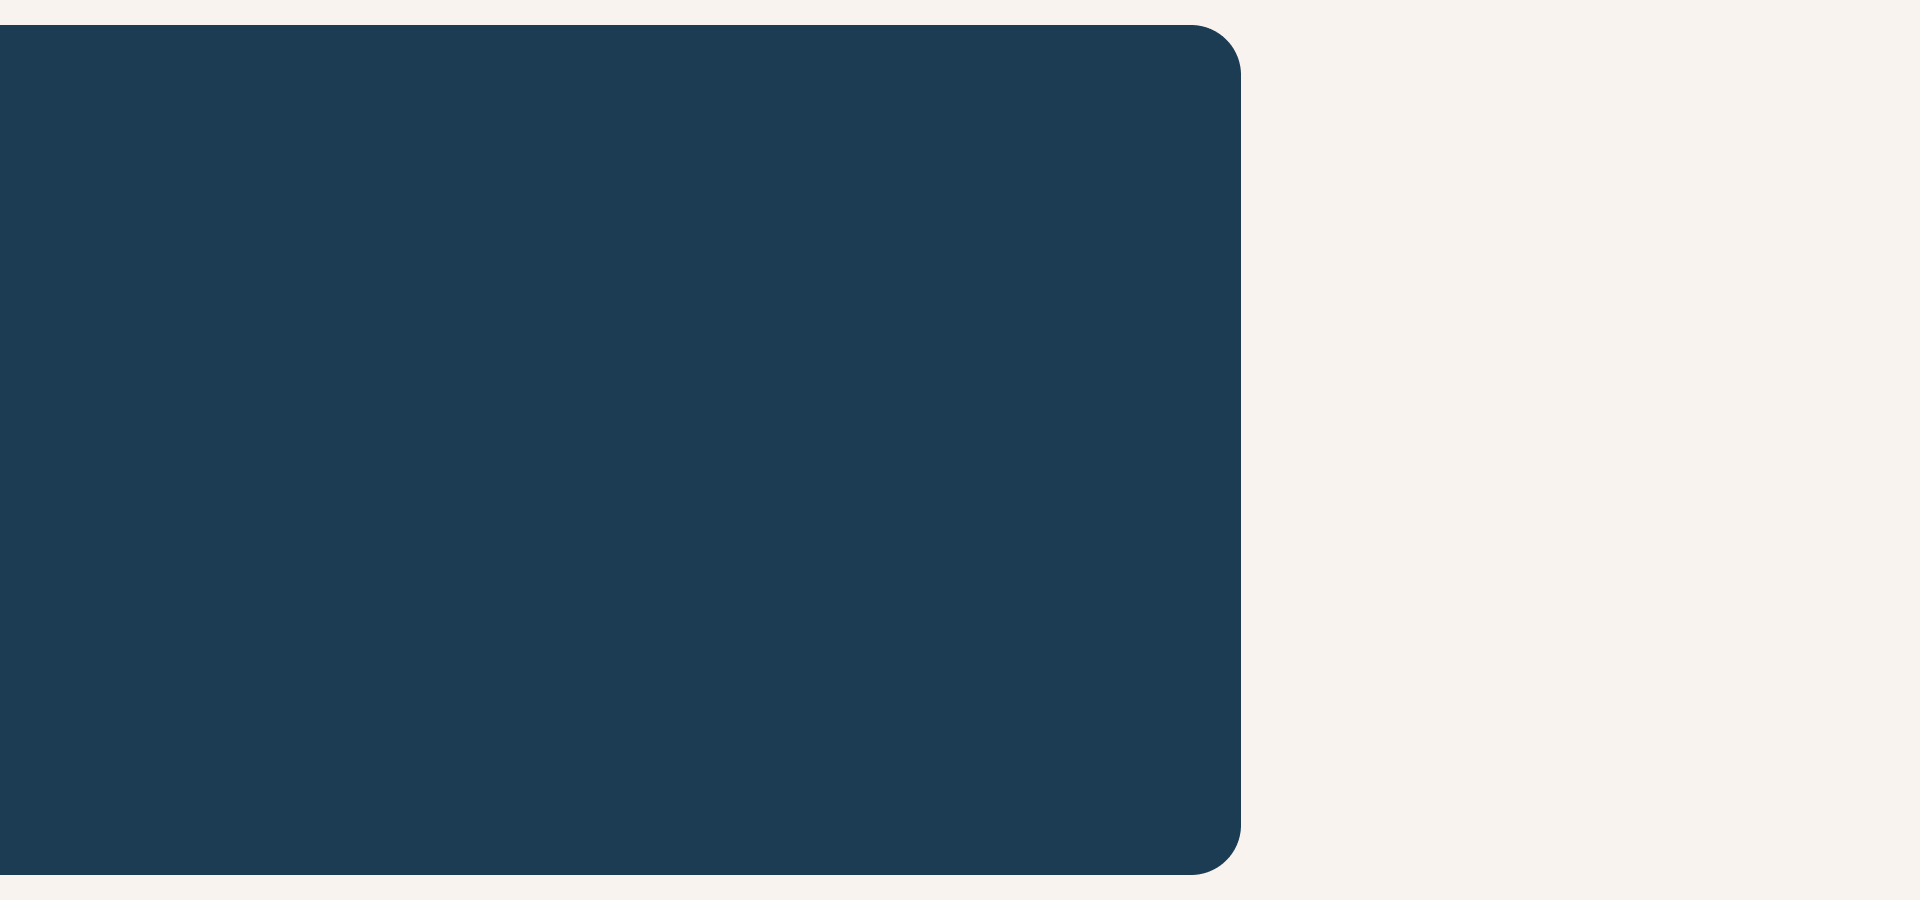
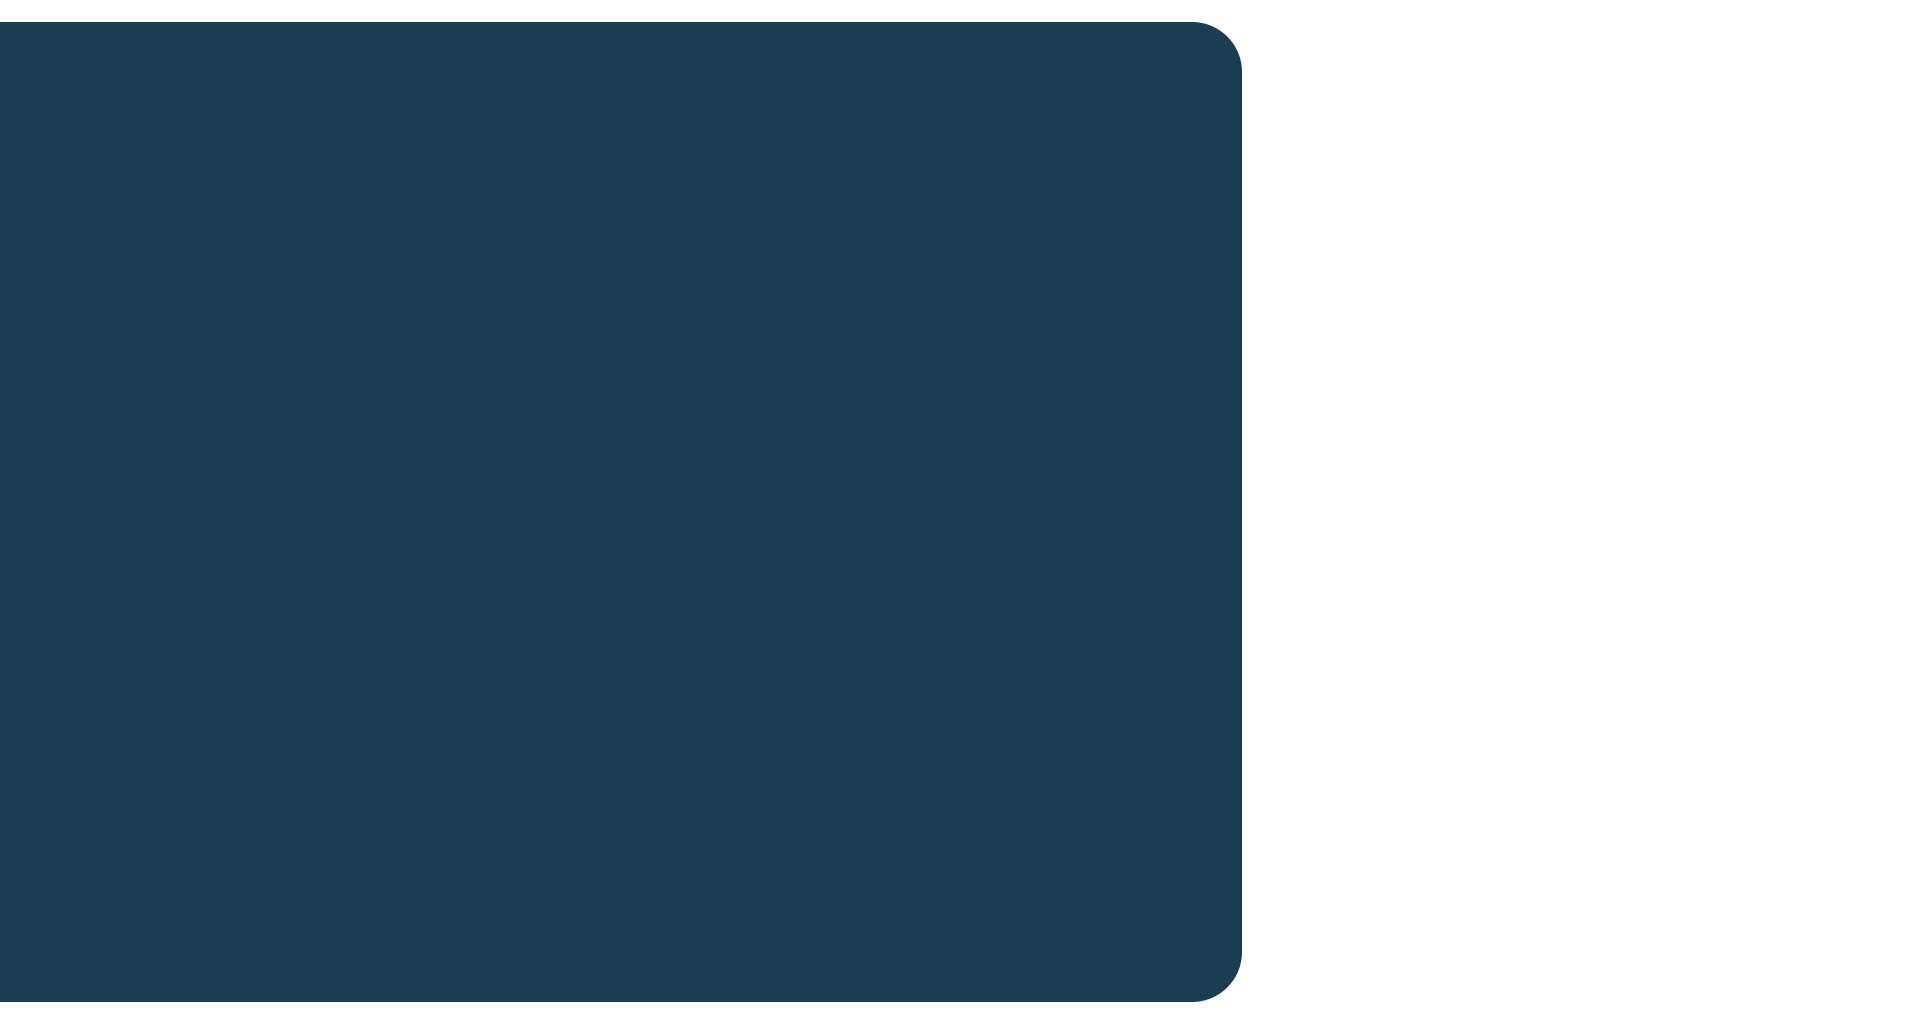
수정

diff --git a/styles/index.css b/styles/index.css
@@ -1,6 +1,6 @@
 body {
     width:100%; height:100vh;
-    background-color: #F9F3EF;
+    background-color: #fff;
 }
 
 header {
@@ -55,7 +55,7 @@ header a:last-child {margin-right: 0;}
 #wrap .swiper-wrapper .intro .title span:nth-child(2),
 #wrap .swiper-wrapper .intro .title span:nth-child(3), 
 #wrap .swiper-wrapper .intro .title span:nth-child(4) {
-    color:#F9F3EF;
+    color:#fff;
 } 
 #wrap .swiper-wrapper .intro .title span:nth-child(5), 
 #wrap .swiper-wrapper .intro .title span:nth-child(6),
@@ -74,7 +74,7 @@ header a:last-child {margin-right: 0;}
     transform: translateX(-50%);
     width: 1px;
     height: 0;
-    background-color: #F9F3EF;
+    background-color: #fff;
     animation: growLine 1.2s ease forwards;
     animation-delay: 0.3s; 
 }
@@ -153,7 +153,7 @@ header a:last-child {margin-right: 0;}
     position:absolute; top:380px; left:860px;
 }
 #wrap .swiper-wrapper .intro .web p {
-    color:#F9F3EF; font-size: 0.75rem;
+    color:#fff; font-size: 0.75rem;
     animation: webLeft 2s ease both;
 }
 #wrap .swiper-wrapper .intro .web p:nth-child(1) {
@@ -172,7 +172,7 @@ header a:last-child {margin-right: 0;}
     right: 0;
     width: 0;
     height: 0.1px;
-    background-color: #F9F3EF;
+    background-color: #fff;
     animation: webLeftLine 1.5s ease forwards;
     animation-delay: 0.3s;
 }
@@ -335,11 +335,11 @@ header a:last-child {margin-right: 0;}
     position:relative;
 }
 #wrap .swiper-wrapper .web_design .container #project_swiper {
-    height:500px; width:1100px;
+    height:600px; width:1200px;
 }
 #wrap .swiper-wrapper .web_design .container #project_swiper .swiper-wrapper {}
 #wrap .swiper-wrapper .web_design .container #project_swiper .swiper-wrapper .swiper-slide {
-    display: flex; justify-content: space-between;
+    display: flex; gap:100px; justify-content: center;
     align-items: center;
 }
 #wrap .swiper-wrapper .web_design .container #project_swiper .swiper-wrapper .swiper-slide p {
